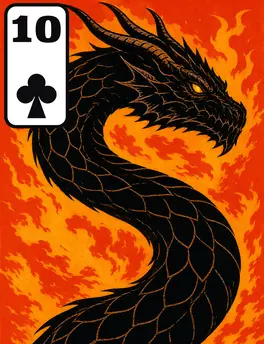
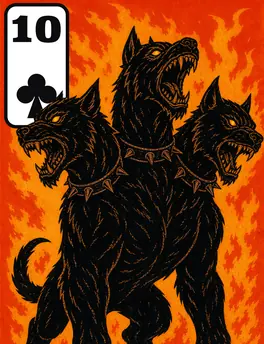
feat(theme): final Mythic J♥, J♠ and 10♣

diff --git a/docs/SPEC.md b/docs/SPEC.md
@@ -996,7 +996,7 @@ Rules that keep the seam real:
 - **The playmat** is drawn by `GameScreen` behind the board only, never behind a curtain; `Board` is transparent so it shows through.
 - **Privacy.** A face image is requested only for a card the viewer may see. The opponent's hidden hand and the deck render backs, and behind the curtain no face image and no playmat is in the DOM.
 
-**Mythic, the first bitmap theme** *(2026-09-28, round 8 themes)*. It ships 52 faces, four glasses faces and a card back, and no playmat, so the table is Classic. The back is a painted cathedral dome with its own gold frame, exported from a finished 800×1040 image (already ~1:1.3, so it is not cropped) with `--back PATH`. The source faces are 2:3 portraits with the rank and suit index already stamped on; each is cropped to the game's ~1:1.3 card while keeping the whole stamped index. Faces are WebP at 132×172 and 264×344 (glasses 172×132 and 344×264); the back is WebP at the same two sizes (132×172, 264×344); the total is 1.40 MiB, against R22's 4 MB budget. Its painted index is smaller than Classic's (about a 10 px rank on a 60–66 px hand card); legibility on a real phone is still to be checked.
+**Mythic, the first bitmap theme** *(2026-09-28, round 8 themes)*. It ships 52 faces, four glasses faces and a card back, and no playmat, so the table is Classic. The back is a painted cathedral dome with its own gold frame, exported from a finished 800×1040 image (already ~1:1.3, so it is not cropped) with `--back PATH`. The source faces are 2:3 portraits with the rank and suit index already stamped on; each is cropped to the game's ~1:1.3 card while keeping the whole stamped index. Faces are WebP at 132×172 and 264×344 (glasses 172×132 and 344×264); the back is WebP at the same two sizes (132×172, 264×344); the total is 1.39 MiB, against R22's 4 MB budget. Its painted index is smaller than Classic's (about a 10 px rank on a 60–66 px hand card); legibility on a real phone is still to be checked.
 
 **Adding or regenerating a theme.** Run `scripts/export_theme.py SOURCE --theme-id ID --label LABEL` (Python 3 with Pillow). It reads finished art from `SOURCE` and never modifies it: one folder per rank (`aces/A-spades.png` … `kings/K-clubs.png`, any folder overridable with `--rank-dir RANK=DIR`, for example `--rank-dir 8=eights-v2`), optional `glasses-<suit>.png` in the 8s folder or `--glasses-dir`, and optional `back.png` (or `--back PATH`) and `table.png`. It writes the WebP files and `manifest.json` to `web/static/themes/ID/`, adds or updates the theme's line in `index.json`, prints the total bytes, and exits non-zero if the theme is over the 4 MB budget (the files are still written, so check the exit status). A missing source file is left out of the manifest and the game draws vector for it. Then run the gate: `theme-mythic-assets.test.ts` checks that every shipped catalog theme's images exist and that its declared `assetBytes` is the real total and within budget.
 
